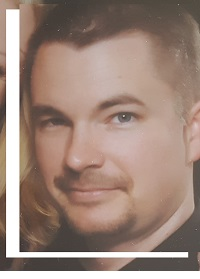
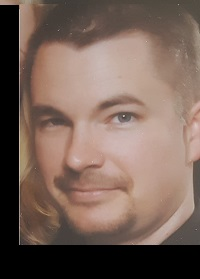
CSUMB FILTER WORKING

Changed region(s): [[0.0, 0.0, 1.0, 1.0]]

diff --git a/CHRIS AND RAUL MIDTERM/MIDTERM.py b/CHRIS AND RAUL MIDTERM/MIDTERM.py
@@ -1,0 +1,108 @@
+import math
+
+def c():
+  #setMediaFolder()
+  path = getMediaPath("CSUMB KEY.jpg")
+  key = makePicture(path)
+  path = getMediaPath("CSUMB KEY 2.jpg")
+  key2 = makePicture(path)
+  path = getMediaPath("2014.jpg")
+  img = makePicture(path)
+  path = getMediaPath("otter.jpg")
+  otter = makePicture(path)
+ 
+  waterMark(img, key2, 50, 30, .3)
+  waterMark(img, key, 50, 30, .7)
+  
+  img = addBackgroundPattern(img, otter, 100, 100, 50, 50)
+  img = addShadowEffect(img, 50, 50, img.height-100, img.width-100)
+  
+  blueUp(img)
+  
+  show(img)
+  
+#Green screen function from previous assignment modified to take target x and y coordinates
+def waterMark(img, key, targetX, targetY, shadow):
+  new_y = targetY
+  for y in range (0,getHeight(key)):
+      new_y += 1
+      new_x = targetX
+      for x in range (0, getWidth(key)):
+        new_x += 1
+        original=getPixel(key, x, y)
+        pixel=getPixel(img, new_x, new_y)
+        color = makeColor(pixel.red * (1 - shadow), pixel.green * (1 - shadow), pixel.blue * (1 - shadow))
+        if getRed(original) < (getGreen(original) - 30) and getBlue(original) < (getGreen(original) - 30):
+          setColor(pixel, color)
+  return img
+
+# function to blue up the image
+def blueUp(pic):
+  pixels = getPixels(pic)
+  for p in pixels:
+    b = getBlue(p)
+    setBlue(p, b*1.9)
+  return pic  
+  
+#Adds an artificial shading effect to the bottom and right sides of a chosen area inside of a photo.
+def addShadowEffect(image, startX, startY, height, width, shadow_depth = 20, shadow_offset = 10, blur_repetitions = 3):   
+  #image - The image that the effect will be applied to.
+  #startX - The starting x-coordinate of the area the effect will be applied to.
+  #startY - The starting y-coordinate of the area the effect will be applied to.
+  #height - The height of the area the effect will be applied to.
+  #width - The width of the area the effect will be applied to.
+  #shadow_depth (optional) - The amount of pixels out from the x and y coordinates that will be shaded. Higher value = longer shadow.
+  #shadow_offset (optional) - The amount of pixels that the shadow will be offset from the startX and startY coordinates. Creates more angled look.
+  #blur_repetitions (optional) - The amount of time the blur effect will be run on the shading values.
+
+  #Creates a matrix to store shading values.
+  #Matrix contains x and y coordinates and determines each coordinate's shading value
+  #by its right/bottom distance from the area that the effect is being applied to,
+  #stopping once it reaches the designated depth. 
+  #Shading values are from 1.0 to 0.
+  shadow_matrix = [[0 for i in xrange(height + shadow_depth)] for i in xrange(width + shadow_depth)]
+  for x in range(shadow_offset - 1,width + shadow_depth - 1):
+    for y in range(shadow_offset - 1, height + shadow_depth - 1):
+      if x <= width and y <= height:
+        shadow_matrix[x][y] = 1.0
+      elif x > width and y <= height:
+        shadow_matrix[x][y] = ((width + shadow_depth) - x) * (1.0 / shadow_depth)
+      elif x <= width and y > height:
+        shadow_matrix[x][y] = ((height + shadow_depth) - y) * (1.0 / shadow_depth)
+      elif x > width and y > height:
+        dist = calculateDistance(width, height, x, y)
+        if dist > shadow_depth: shadow_matrix[x][y] = 0
+        else: shadow_matrix[x][y] = (shadow_depth - dist) * (1.0 / shadow_depth)  
+
+  #Create Blur to smooth edges
+  #Blur works by taking the average of each coordinate's shadow multiplier and the multipliers of its 8 surrounding neighbors.
+  #Repeats multiple times to increase the effect.
+  for count in range(blur_repetitions):
+    for x in range(1, width + shadow_depth - 1):
+      for y in range(1, height + shadow_depth - 1):
+        sum = shadow_matrix[x][y]
+        for i in range(-1, 2):
+          for j in range(-1, 2):
+            if i != 0 or j != 0: sum += shadow_matrix[x + i][y + j]
+        shadow_matrix[x][y] = sum / 9  
+
+  #Applies the shadow effect using the shading matrix to each pixel on the right and bottom side of the selected area.
+  #Uses depth and offset values to determine where to shade.
+  #Formula for applying the effect is color value * (1 - shading value)
+  for x in range(0, width + shadow_depth - 1):
+    for y in range(0, height + shadow_depth - 1):
+      if x >= width - 1 or y >= height - 1: 
+        pixel = getPixel(image, startX + x, startY + y)
+        color = makeColor(pixel.red * (1 - shadow_matrix[x][y]), pixel.green * (1 - shadow_matrix[x][y]), pixel.blue * (1 - shadow_matrix[x][y]))
+        setColor(pixel, color)  
+  return image 
+
+def calculateDistance(x1,y1,x2,y2):
+     dist = math.sqrt((x2 - x1)**2 + (y2 - y1)**2)
+     return dist
+
+#image = get_pic()
+#pattern = get_pic()
+#border_image = addBackgroundPattern(image, pattern, 200, 200, 100, 150)
+#image_with_shadow = addShadowEffect(border_image, 100, 150, image.height, image.width)
+#show(image_with_shadow) 
